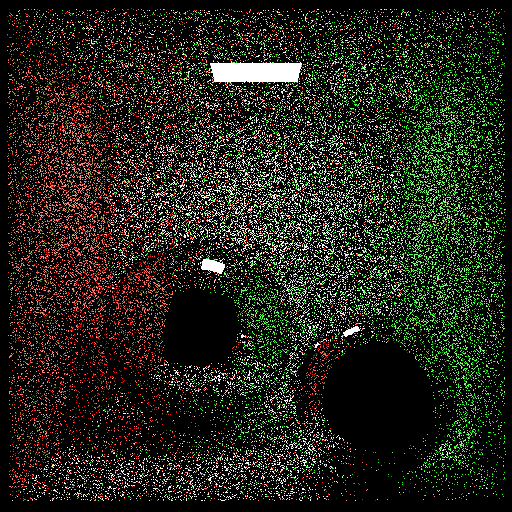
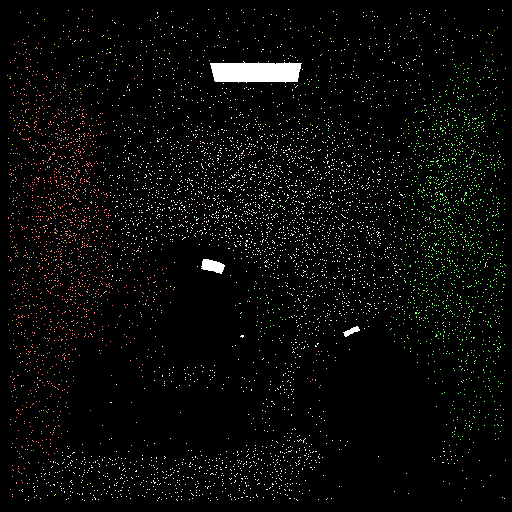
add russian roulette

Changed region(s): [[0.0, 0.0312, 1.0, 0.9688]]

diff --git a/scenes.py b/scenes.py
@@ -12,7 +12,7 @@ class Scene:
         return ""
 
     def find_hit(self, ray):
-        closest_hit = 10000000000
+        closest_hit = 10000000000.0
         final_hit = (-1, None, None)
         for shape in self.shapes:
             hit = shape.intersect(ray)
@@ -22,10 +22,20 @@ class Scene:
 
         return final_hit
 
-    def trace_path(self, ray, depth, max_depth):
-        if depth > max_depth:
+    def trace_path(self, ray, depth):
+        # We apply russian roulette to the current ray on the path,
+        # increasing the termination probability with each new level of depth.
+        # If the ray is not terminated, its contribution is weighted by the
+        # inverse of the termination probability, ensuring that we keep the
+        # final radiance unbiased without having to set a predetermined
+        # bounce depth.
+        termination_probability = 1.0 - math.pow(0.85, depth)
+        terminate = random.uniform(0, 1)
+        if terminate <= termination_probability:
             return glm.vec3(0)
     
+        # Try to find an intersection between the ray and the scene geometry.
+        # Stop traversing and return black if nothing is hit.
         t, hit_normal, material = self.find_hit(ray)
         if t == -1.0:
             return glm.vec3(0)
@@ -42,7 +52,7 @@ class Scene:
         brdf = material.brdf(-ray.direction, newRay.direction, hit_normal, hit_point)
 
         # Recurse with the new ray and continue accumulating radiance.
-        incoming_light = self.trace_path(newRay, depth + 1, max_depth)
+        incoming_light = self.trace_path(newRay, depth + 1) / (1.0 - termination_probability)
 
         # The integrand is emittance + BRDF * cosTheta * light.
         return emittance + brdf * glm.dot(newRay.direction, hit_normal) * incoming_light / pdf

diff --git a/path_tracer.py b/path_tracer.py
@@ -83,7 +83,7 @@ def main():
             color = glm.vec3(0)
             for s in range(samples):
                 ray = scene.camera.generate_ray(x, y, x_res, y_res)
-                color += scene.trace_path(ray, 0, 7)
+                color += scene.trace_path(ray, 0)
             color /= samples
             pixel_data[y, x, 0] = color.x
             pixel_data[y, x, 1] = color.y
